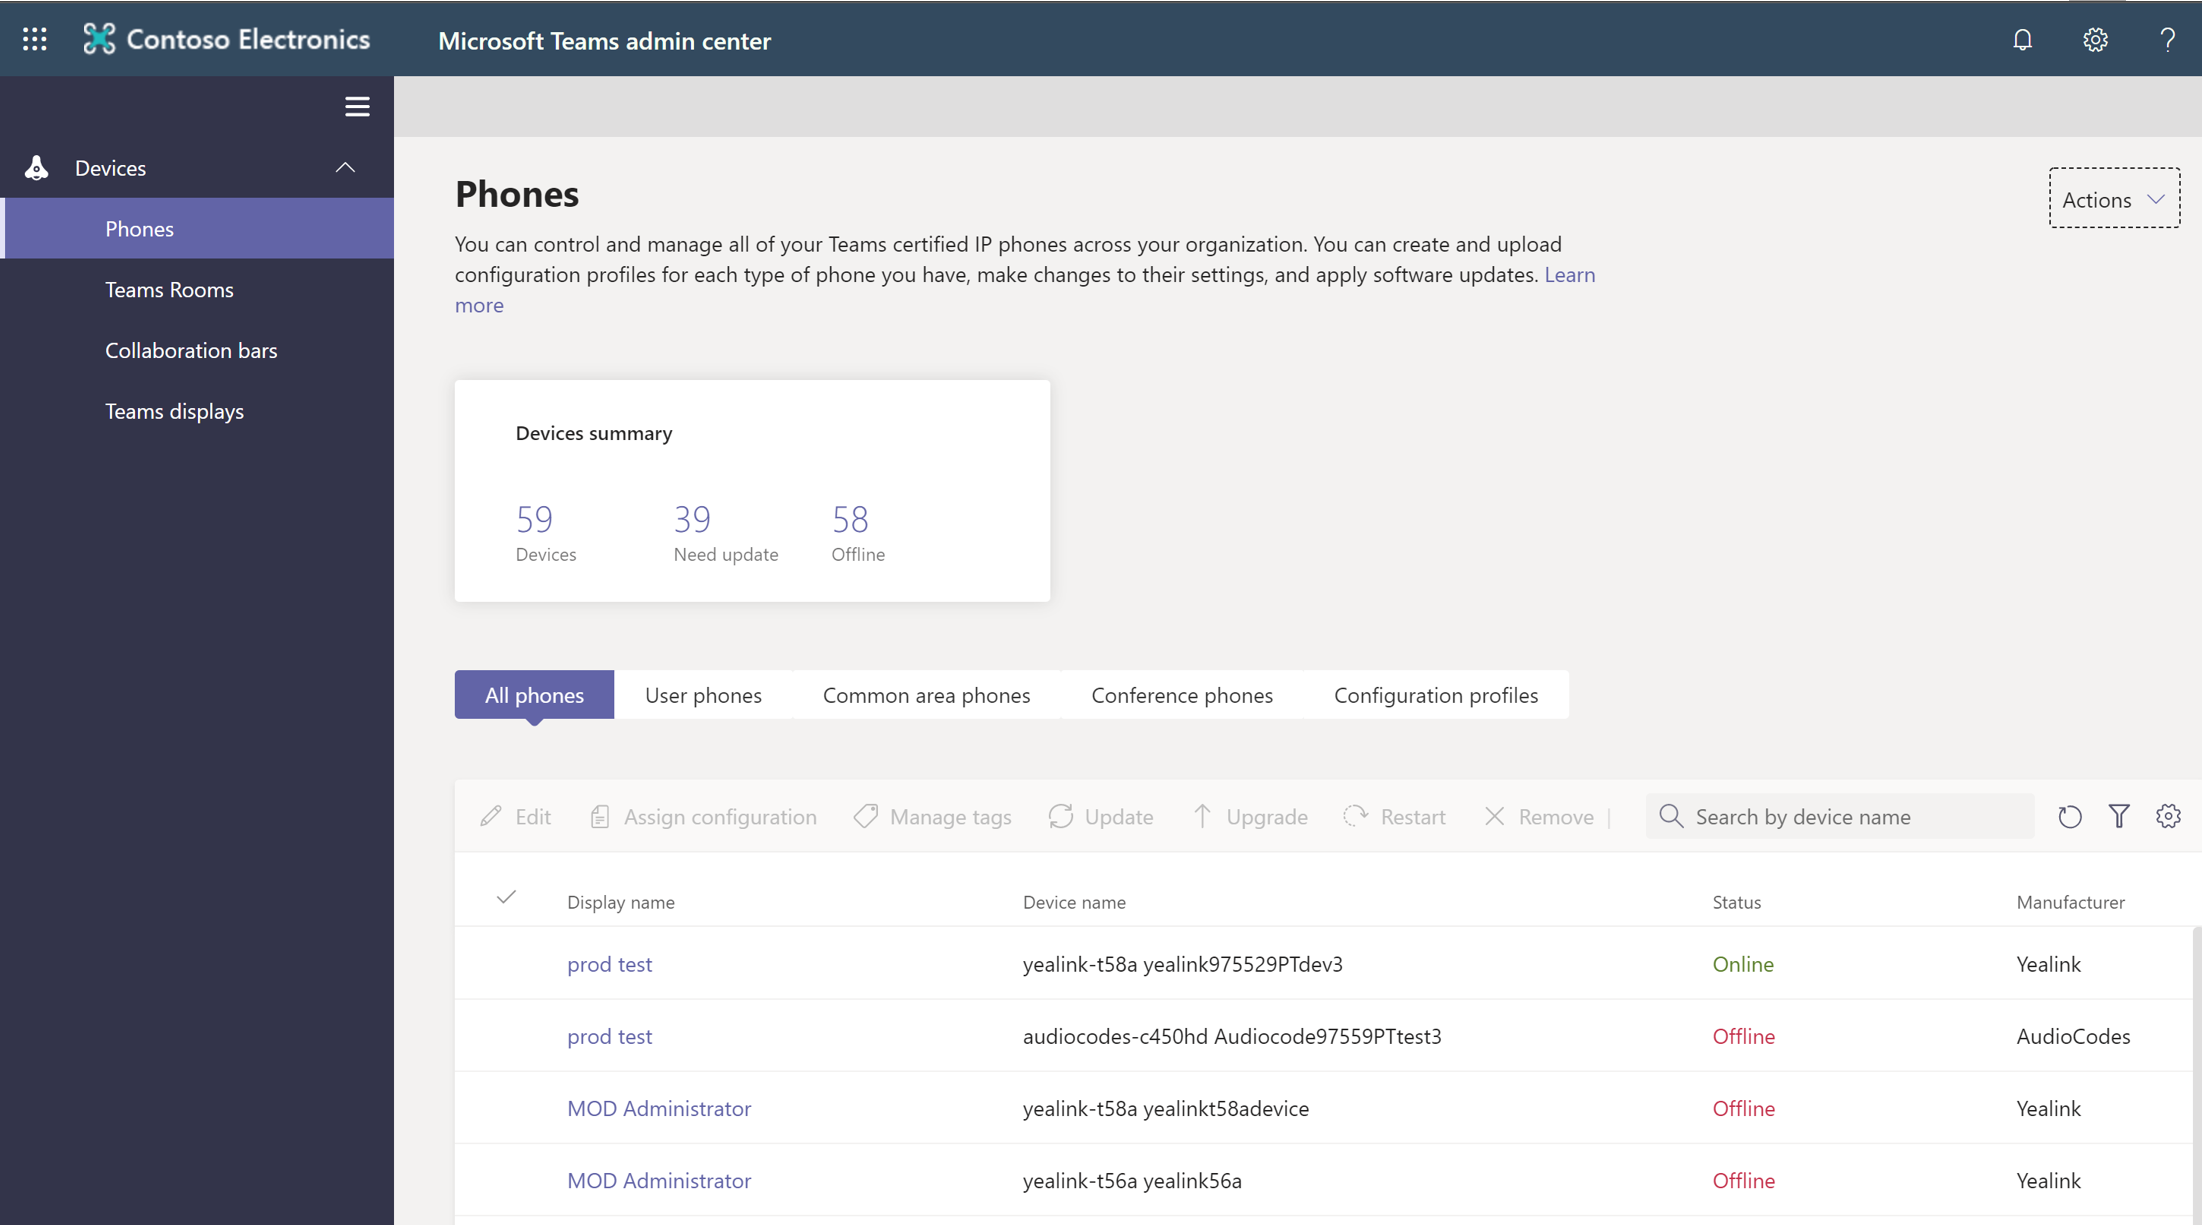
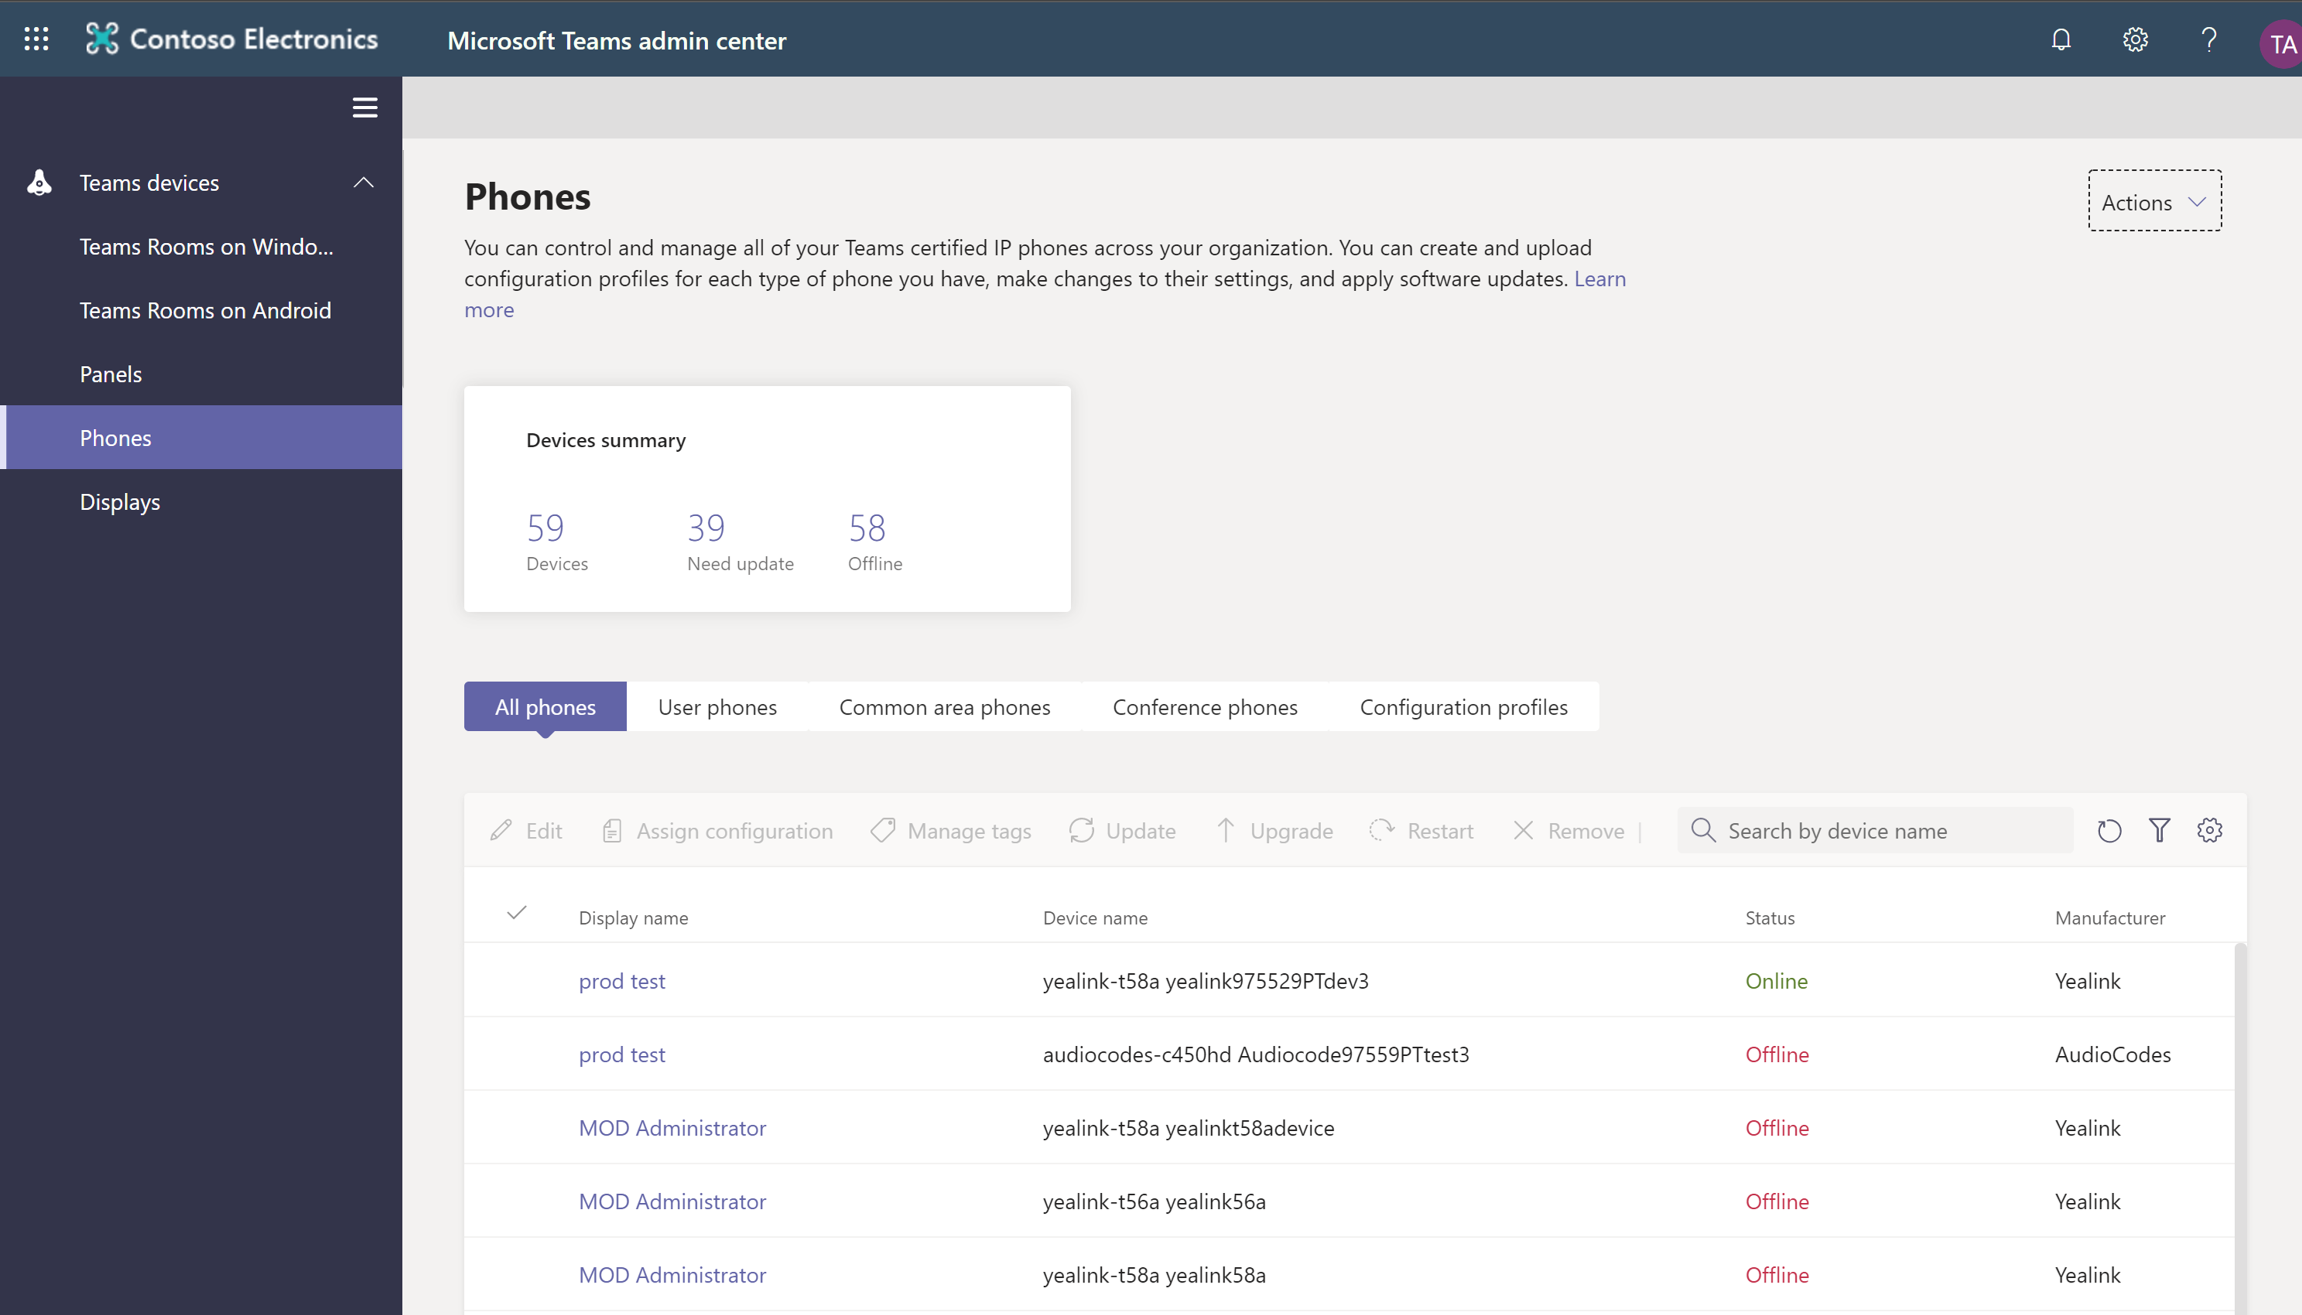
changed files by pdets auto publish service, publishid[13a79bdc-2e5c-4870-a427-e6ca49bb561a] and do [publish].

diff --git a/learn-m365-pr/wwl/configure-manage-microsoft-teams-devices/includes/06-manage-devices-microsoft-teams.md b/learn-m365-pr/wwl/configure-manage-microsoft-teams-devices/includes/06-manage-devices-microsoft-teams.md
@@ -16,16 +16,16 @@ To manage devices in Microsoft Teams, you must be assigned one of the following 
 
 You can manage any device that's certified for, and enrolled in, Teams. Admins can manage the following types of certified devices:
 
-* Collaboration bars
-* Conference phones
-* Desk phones
-* Microsoft Teams Rooms
-* Teams displays
-* Teams panels
+* Teams Rooms on Windows
+* Teams Rooms on Android
+* Panels
+* Phones
+* Displays
 
-## Manage phones, collaboration bars, Teams displays, and Teams panels
 
-Devices must be enrolled in Microsoft Teams before they can be managed through the Teams admin center. Organizations can use the Teams admin center to view and manage phones, collaboration bars, Teams displays, and Teams panels. The following information can be maintained and displayed for each device:
+## Manage devices
+
+Devices must be enrolled in Microsoft Teams before they can be managed through the Teams admin center. Organizations can use the Teams admin center to view and manage devices. The following information can be maintained and displayed for each device:
 
 - Device name
 - Manufacturer
@@ -36,9 +36,9 @@ Devices must be enrolled in Microsoft Teams before they can be managed through t
 - Last seen
 - History
 
-If an organization is signed up for Microsoft Intune, then all phones, collaboration bars, Teams displays, and Teams panels are automatically enrolled in Intune. After a device is enrolled, device compliance is confirmed and conditional access policies are applied to the device.
+If an organization is signed up for Microsoft Intune, then all devices are automatically enrolled in Intune. After a device is enrolled, device compliance is confirmed and conditional access policies are applied to the device.
 
-The following chart displays examples of how an organization can manage phones, collaboration bars, Teams displays, and Teams panels.  
+The following chart displays examples of how an organization can manage devices.  
 
 | To do this task...                           | Complete these steps                                                                                                                                                                                                                                                                                                      |
 |--------------------|---------------------------------------------------------|
@@ -51,7 +51,7 @@ The following chart displays examples of how an organization can manage phones, 
 | Filter devices using device tags        | Select the filter icon, select the **Tag** field, specify a device tag to filter on, and select **Apply**.  |
 | View device history and diagnostics     | Under the **History** column, select the **View** link for a device to view its update history and diagnostic details. |
 
-:::image type="content" source="../media/manage-phones.png" alt-text="Manage phones, collaboration bars, Teams displays, and Teams panels" lightbox="../media/manage-phones.png":::
+:::image type="content" source="../media/manage-phones.png" alt-text="Manage phones" lightbox="../media/manage-phones.png":::
 
 ## Manage Teams Rooms devices
 
